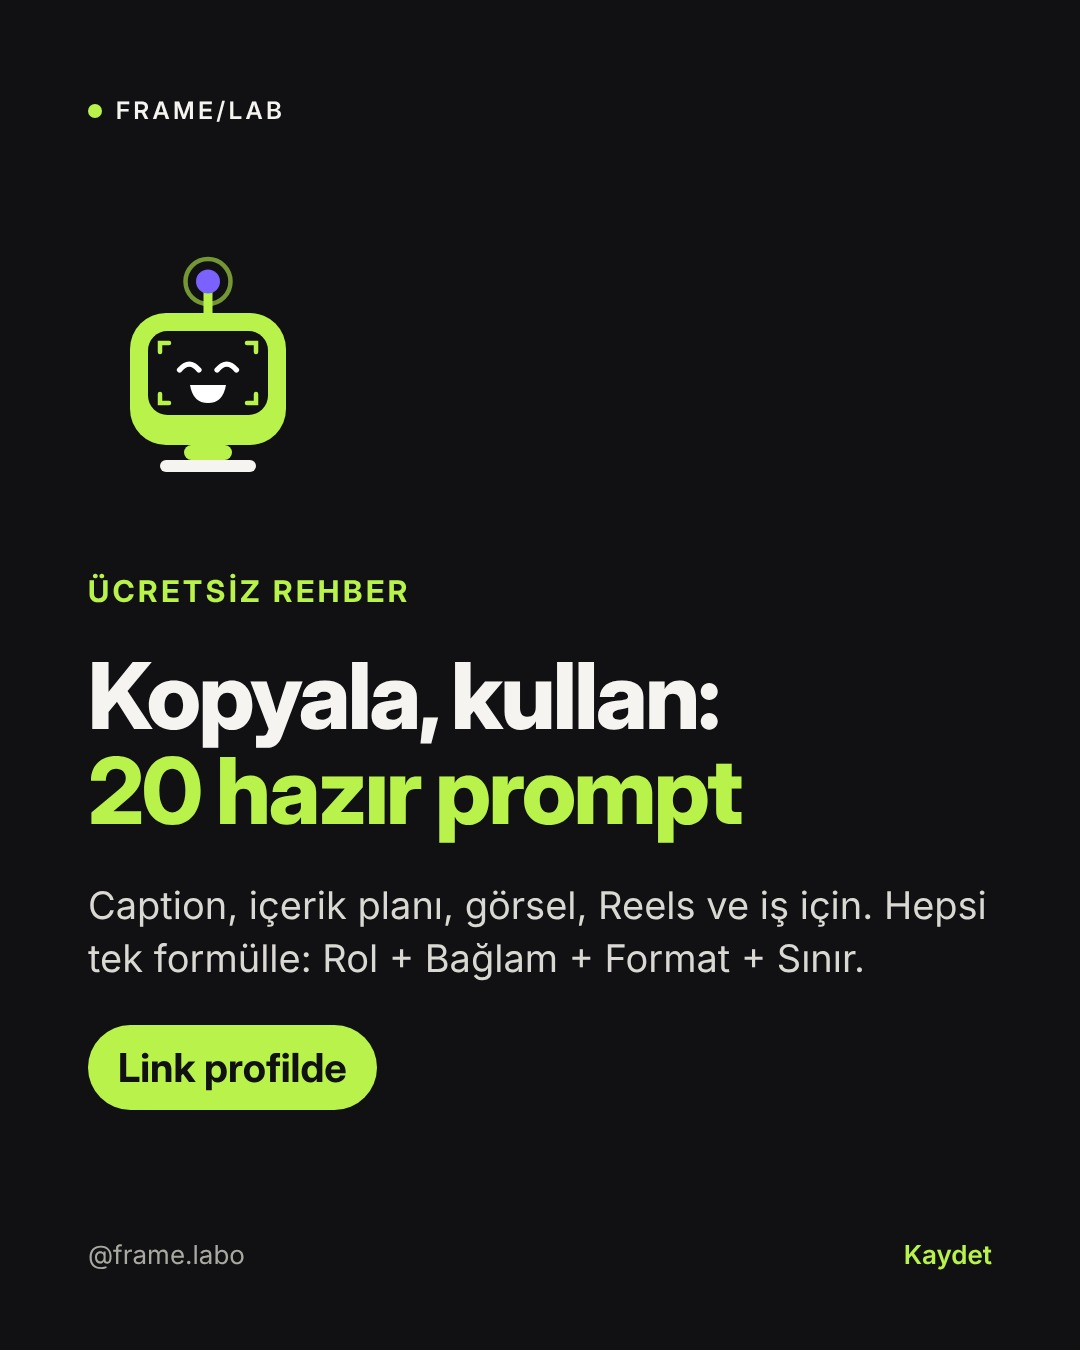
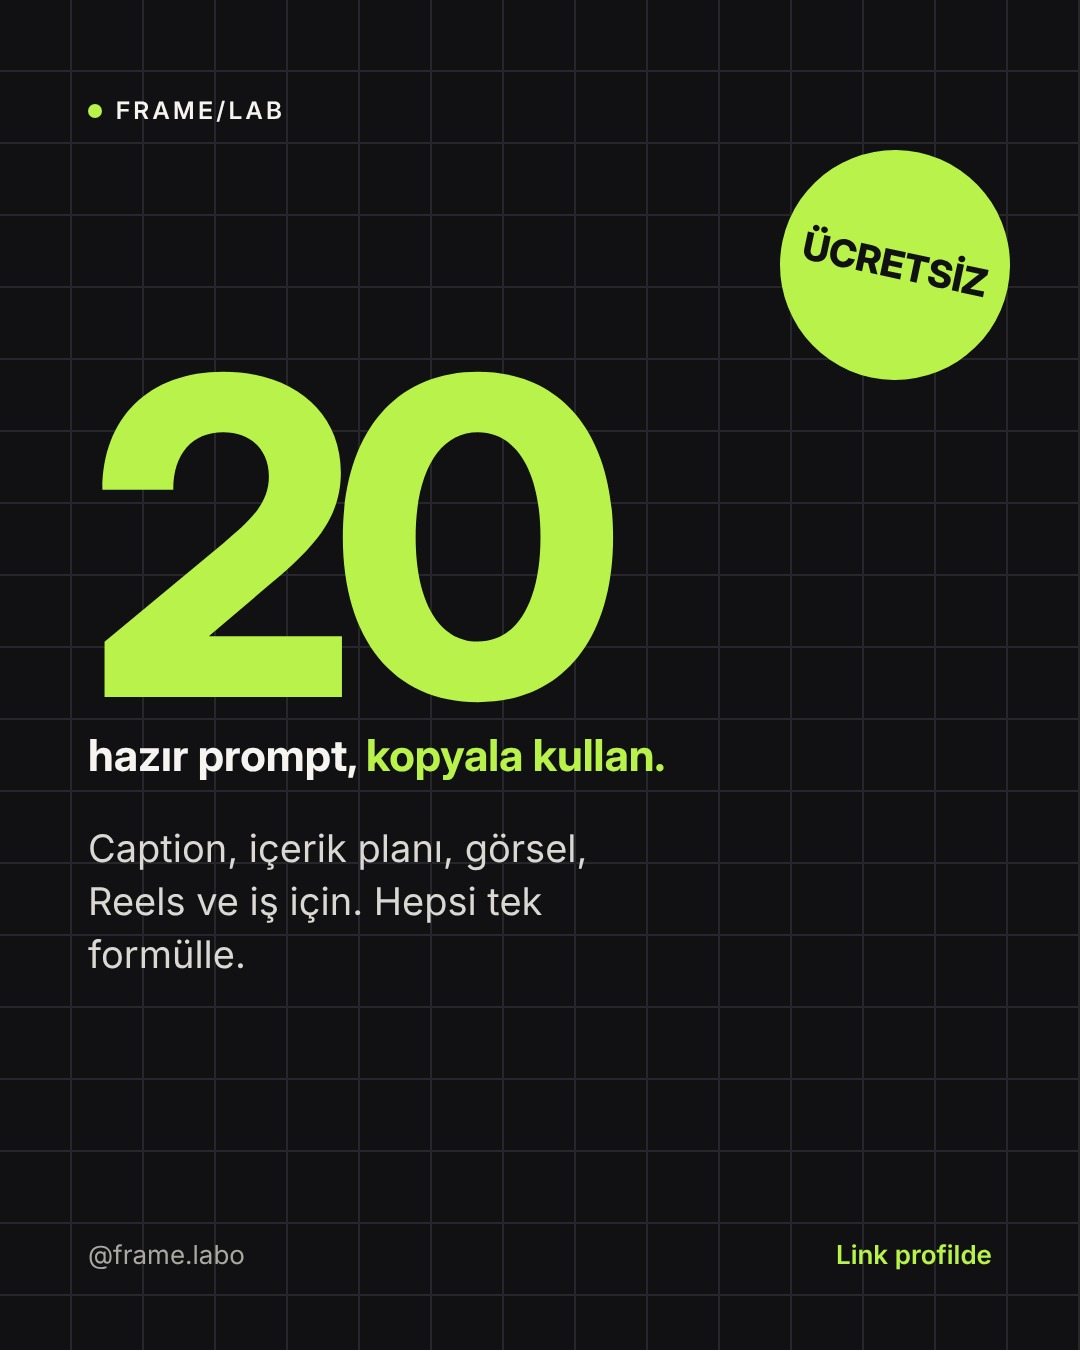
Yeni düzen aileleri (bignum, chat, phone, compare, steps, quote, tiles), çeşitlilik kuralları; rehber gönderisi yeni düzende
Claude-Session: https://claude.ai/code/session_01Wxk8vG3nfm9TWwaejT8qL7

diff --git a/tools/render.py b/tools/render.py
@@ -49,7 +49,46 @@ h2{{font-family:'Inter Display';font-weight:800;font-size:{76 if h<1500 else 88}
 .rd{{font-size:27px;color:{grey};margin-top:6px}}
 .foot{{position:absolute;left:{88 if h<1500 else 90}px;right:{88 if h<1500 else 90}px;bottom:{80 if h<1500 else 110}px;display:flex;justify-content:space-between;font-size:{26 if h<1500 else 30}px;color:{grey}}}
 .sw{{color:{lab if theme=='dark' else fg};font-weight:600}}
-.a{{opacity:1}}"""
+.a{{opacity:1}}
+.main.center{{text-align:center;align-items:center}} .main.bottom{{justify-content:flex-end}}
+.pat-grid{{background-image:linear-gradient({line} 2px,transparent 2px),linear-gradient(90deg,{line} 2px,transparent 2px);background-size:72px 72px;background-position:-2px -2px}}
+.pat-dots{{background-image:radial-gradient({line} 3px,transparent 3.5px);background-size:44px 44px}}
+.bignum{{font-family:'Inter Display';font-weight:800;line-height:.82;letter-spacing:-.06em;color:{lab if theme=='dark' else fg}}}
+.bignum .u{{display:inline-block;border-bottom:{'0' if theme=='dark' else '28px solid '+LIME};line-height:.7}}
+.blabel{{font-family:'Inter Display';font-weight:700;font-size:{44 if h<1500 else 52}px;margin-top:10px}}
+.chat{{display:flex;flex-direction:column;gap:22px;width:100%}}
+.bub{{max-width:86%;padding:26px 30px;border-radius:30px;font-size:{32 if h<1500 else 40}px;line-height:1.35;text-align:left}}
+.bub.you{{align-self:flex-end;background:{fg};color:{bg};border-bottom-right-radius:8px}}
+.bub.ai{{align-self:flex-start;background:{cardbg};color:{fg};border-bottom-left-radius:8px;{'' if theme=='dark' else 'box-shadow:0 2px 0 '+line}}}
+.bub .who{{display:block;font-size:22px;font-weight:700;letter-spacing:.08em;opacity:.6;margin-bottom:8px}}
+.cmp{{display:grid;grid-template-columns:repeat(2,minmax(0,1fr));gap:22px;width:100%;text-align:left}}
+.cmp .c{{border-radius:28px;padding:32px 30px;background:{cardbg}}}
+.cmp .c.good{{background:{LIME};color:{INK}}}
+.cmp .k{{font-family:'Inter Display';font-weight:800;font-size:28px;letter-spacing:.08em;margin-bottom:14px}}
+.cmp .t{{font-size:{30 if h<1500 else 36}px;line-height:1.38}}
+.steps{{display:flex;flex-direction:column;gap:26px;width:100%;text-align:left}}
+.step{{display:flex;gap:30px;align-items:flex-start}}
+.step .n{{font-family:'Inter Display';font-weight:800;font-size:{110 if h<1500 else 130}px;line-height:.8;color:transparent;-webkit-text-stroke:3px {lab if theme=='dark' else fg};min-width:150px}}
+.step .st{{font-family:'Inter Display';font-weight:700;font-size:{40 if h<1500 else 46}px;line-height:1.15}}
+.step .sd{{font-size:{28 if h<1500 else 34}px;color:{grey};margin-top:6px;line-height:1.35}}
+.quote{{font-family:'Inter Display';font-weight:800;font-size:{84 if h<1500 else 96}px;line-height:1.08;letter-spacing:-.025em}}
+.qm{{font-family:'Inter Display';font-weight:800;font-size:260px;line-height:.6;color:{lab if theme=='dark' else LIME_DARK};height:120px}}
+.tiles{{display:grid;grid-template-columns:repeat(2,minmax(0,1fr));gap:20px;width:100%;text-align:left}}
+.tile{{background:{cardbg};border-radius:28px;padding:30px 28px;min-height:{220 if h<1500 else 280}px;display:flex;flex-direction:column;justify-content:space-between}}
+.tile .ti{{font-family:'Inter Display';font-weight:800;font-size:52px;color:{lab if theme=='dark' else LIME_DARK}}}
+.tile .tt{{font-family:'Inter Display';font-weight:700;font-size:{32 if h<1500 else 38}px;line-height:1.2}}
+.sticker{{position:absolute;top:{150 if h<1500 else 190}px;right:{70 if h<1500 else 80}px;width:230px;height:230px;border-radius:50%;background:{LIME};color:{INK};display:flex;align-items:center;justify-content:center;text-align:center;font-family:'Inter Display';font-weight:800;font-size:38px;line-height:1.05;transform:rotate(12deg);z-index:3;padding:20px}}
+.peek{{position:absolute;right:-90px;bottom:{-60 if h<1500 else 40}px;z-index:1;transform:rotate(-10deg)}}
+.frame i{{position:absolute;width:90px;height:90px;border-color:{lab if theme=='dark' else fg};border-style:solid;border-width:0;z-index:2}}
+.frame .tl{{top:{150 if h<1500 else 120}px;left:56px;border-top-width:8px;border-left-width:8px}} .frame .tr{{top:{150 if h<1500 else 120}px;right:56px;border-top-width:8px;border-right-width:8px}}
+.frame .bl{{bottom:{140 if h<1500 else 190}px;left:56px;border-bottom-width:8px;border-left-width:8px}} .frame .br{{bottom:{140 if h<1500 else 190}px;right:56px;border-bottom-width:8px;border-right-width:8px}}
+.phone{{position:absolute;right:-30px;bottom:{-180 if h<1500 else -60}px;width:{430 if h<1500 else 500}px;height:{860 if h<1500 else 1000}px;border-radius:64px;background:{INK};border:14px solid {'#2A2A30' if theme=='dark' else INK};transform:rotate(-7deg);z-index:1;padding:70px 26px 26px;color:{PAPER};display:flex;flex-direction:column;gap:18px;box-shadow:0 30px 60px rgba(0,0,0,.25)}}
+.phone:before{{content:'';position:absolute;top:22px;left:50%;width:120px;height:30px;border-radius:20px;background:#000;transform:translateX(-50%)}}
+.phone .pt{{font-family:'Inter Display';font-weight:800;font-size:36px}}
+.phone .pb{{border-radius:22px;background:#26262C;padding:20px;font-size:26px;line-height:1.3}}
+.phone .pb.acc{{background:{LIME};color:{INK};font-weight:700}}
+.narrow{{max-width:{560 if h<1500 else 600}px}}
+.h1o{{color:transparent;-webkit-text-stroke:3px {fg}}}"""
 
 def el(e, light):
     k = e["type"]; at = f' data-in="{e["at"]}"' if "at" in e else ""
@@ -58,9 +97,12 @@ def el(e, light):
         return f'<div{cls}{at} data-pop="1" style="margin-left:-30px">{kare(e.get("size",340), e.get("face","mutlu"), bg="none", light_bg=light)}</div>'
     if k in ("h1", "h2"):
         st = f' style="font-size:{e["size"]}px"' if "size" in e else ""
-        return f'<{k}{cls}{at}{st}>{hl(e["text"])}</{k}>'
+        oc = ' class="h1o"' if e.get("outline") else ""
+        cl = (cls[:-1] + (" h1o" if e.get("outline") else "") + '"') if cls else oc
+        nar = '<div class="narrow">' if e.get("narrow") else ""
+        return f'{nar}<{k}{cl}{at}{st}>{hl(e["text"])}</{k}>' + ("</div>" if nar else "")
     if k == "tag":  return f'<div class="tag{" a" if at else ""}"{at}>{H.escape(e["text"])}</div>'
-    if k == "lead": return f'<p class="lead{" a" if at else ""}"{at}>{hl(e["text"])}</p>'
+    if k == "lead": return f'<p class="lead{" a" if at else ""}{" narrow" if e.get("narrow") else ""}"{at}>{hl(e["text"])}</p>'
     if k == "chips": return f'<div{cls}{at}>' + "".join(f'<span class="chip">{H.escape(c)}</span>' for c in e["items"]) + "</div>"
     if k == "pill": return f'<div{cls}{at}><span class="pill{" muted" if e.get("muted") else ""}">{H.escape(e["text"])}</span></div>'
     if k == "rows": return f'<div{cls}{at} style="border-bottom:2px solid rgba(127,127,127,.3)">' + "".join(
@@ -70,6 +112,31 @@ def el(e, light):
         body = (f'<div class="ct{" strong" if e.get("strong") else ""}" style="{("font-size:%spx" % e["size"]) if "size" in e else ""}" data-type="{e["typed"][0]},{e["typed"][1]}" data-full="{inner}"></div>'
                 if "typed" in e else f'<div class="ct{" strong" if e.get("strong") else ""}" style="{("font-size:%spx" % e["size"]) if "size" in e else ""}">{H.escape(e["text"])}</div>')
         return f'<div class="card{" out" if e.get("outline") else ""}{" a" if at else ""}"{at}><div class="lbl">{H.escape(e.get("label",""))}</div>{body}</div>'
+    if k == "bignum":
+        sz = e.get("size", 420 if True else 0)
+        return f'<div{cls}{at}><div class="bignum" style="font-size:{sz}px"><span class="u">{H.escape(e["text"])}</span></div>' + (f'<div class="blabel">{hl(e["label"])}</div>' if e.get("label") else "") + "</div>"
+    if k == "chat":
+        out = ""
+        for who, txt in e["items"]:
+            nm = e.get("names", {}).get(who, "SEN" if who == "you" else "YAPAY ZEKÂ")
+            out += f'<div class="bub {who}"><span class="who">{H.escape(nm)}</span>{H.escape(txt)}</div>'
+        return f'<div class="chat{" a" if at else ""}"{at}>{out}</div>'
+    if k == "compare":
+        L, R = e["left"], e["right"]
+        return f'<div class="cmp{" a" if at else ""}"{at}><div class="c"><div class="k">{H.escape(L["label"])}</div><div class="t">{H.escape(L["text"])}</div></div><div class="c good"><div class="k">{H.escape(R["label"])}</div><div class="t">{H.escape(R["text"])}</div></div></div>'
+    if k == "steps":
+        return f'<div class="steps{" a" if at else ""}"{at}>' + "".join(f'<div class="step"><div class="n">{i+1:02d}</div><div><div class="st">{H.escape(t)}</div>' + (f'<div class="sd">{H.escape(d)}</div>' if d else "") + "</div></div>" for i, (t, d) in enumerate(e["items"])) + "</div>"
+    if k == "quote":
+        return f'<div{cls}{at}><div class="qm">“</div><div class="quote">{hl(e["text"])}</div></div>'
+    if k == "tiles":
+        return f'<div class="tiles{" a" if at else ""}"{at}>' + "".join(f'<div class="tile"><div class="ti">{H.escape(t[0])}</div><div class="tt">{H.escape(t[1])}</div></div>' for t in e["items"]) + "</div>"
+    if k == "sticker":
+        return f'<div class="sticker">{hl(e["text"])}</div>'
+    if k == "kare_peek":
+        return f'<div class="peek">{kare(e.get("size",620), e.get("face","goz"), bg="none", light_bg=light)}</div>'
+    if k == "phone":
+        blocks = "".join(f'<div class="pb{" acc" if i == e.get("accent", -1) else ""}">{H.escape(b)}</div>' for i, b in enumerate(e.get("blocks", [])))
+        return f'<div class="phone"><div class="pt">{H.escape(e.get("title",""))}</div>{blocks}</div>'
     raise ValueError("bilinmeyen öğe: " + k)
 
 JS = """<script>
@@ -83,13 +150,17 @@ window.render=function(t){
 };
 </script>"""
 
-def page(theme, elements, w, h, top=None, foot_right=None):
+ABS = ("sticker", "kare_peek", "phone")
+def page(theme, elements, w, h, top=None, foot_right=None, align="", pattern="", frame=False):
     light = theme in ("light", "soft")
     t = f'<div class="top"><div class="brand"><span class="dot"></span>FRAME/LAB</div><div>{top or ""}</div></div>' if h < 1500 else ""
     fr = foot_right if foot_right is not None else ("" if h >= 1500 else "Kaydır →")
     foot = f'<div class="foot"><span>@frame.labo</span><span class="sw">{H.escape(fr) if fr else ("FRAME/LAB" if h>=1500 else "")}</span></div>'
-    body = "".join(el(e, light) for e in elements)
-    return f'<!doctype html><html lang="tr"><head><meta charset="utf-8"><style>{css(theme,w,h)}</style></head><body><div class="s">{t}<div class="main">{body}</div>{foot}</div>{JS}</body></html>'
+    body = "".join(el(e, light) for e in elements if e["type"] not in ABS)
+    deco = "".join(el(e, light) for e in elements if e["type"] in ABS)
+    fr = '<div class="frame"><i class="tl"></i><i class="tr"></i><i class="bl"></i><i class="br"></i></div>' if frame else ""
+    pc = f" pat-{pattern}" if pattern else ""
+    return f'<!doctype html><html lang="tr"><head><meta charset="utf-8"><style>{css(theme,w,h)}</style></head><body><div class="s{pc}">{fr}{deco}{t}<div class="main {align}" style="position:relative;z-index:2">{body}</div>{foot}</div>{JS}</body></html>'
 
 async def _shots(pages, w, h, paths, t_final=True):
     from playwright.async_api import async_playwright
@@ -106,11 +177,11 @@ async def _shots(pages, w, h, paths, t_final=True):
 
 def carousel(spec, out_dir):
     os.makedirs(out_dir, exist_ok=True); sl = spec["slides"]; n = len(sl)
-    pages = [page(s["theme"], s["elements"], 1080, 1350, (f"{i+1}/{n}" if n > 1 else ""), ("Takip et" if i == n-1 else None) if n > 1 else "Kaydet") for i, s in enumerate(sl)]
+    pages = [page(s["theme"], s["elements"], 1080, 1350, (f"{i+1}/{n}" if n > 1 else ""), s.get("foot_right", ("Takip et" if i == n-1 else None) if n > 1 else "Kaydet"), s.get("align",""), s.get("pattern",""), s.get("frame",False)) for i, s in enumerate(sl)]
     asyncio.run(_shots(pages, 1080, 1350, [f"{out_dir}/{i+1}.jpg" for i in range(n)]))
 
 def story(spec, out):
-    asyncio.run(_shots([page(spec["theme"], spec["elements"], 1080, 1920, foot_right=spec.get("foot_right", ""))], 1080, 1920, [out]))
+    asyncio.run(_shots([page(spec["theme"], spec["elements"], 1080, 1920, foot_right=spec.get("foot_right", ""), align=spec.get("align",""), pattern=spec.get("pattern",""), frame=spec.get("frame",False))], 1080, 1920, [out]))
 
 async def _reel_frames(spec, tmp):
     from playwright.async_api import async_playwright
@@ -119,7 +190,7 @@ async def _reel_frames(spec, tmp):
         b = await p.chromium.launch(executable_path="/usr/bin/google-chrome", args=["--no-sandbox"])
         pg = await b.new_page(viewport={"width": 1080, "height": 1920})
         for i, sc in enumerate(spec["scenes"]):
-            f = f"{tmp}/s{i}.html"; open(f, "w").write(page(sc["theme"], sc["elements"], 1080, 1920))
+            f = f"{tmp}/s{i}.html"; open(f, "w").write(page(sc["theme"], sc["elements"], 1080, 1920, align=sc.get("align",""), pattern=sc.get("pattern",""), frame=sc.get("frame",False)))
             await pg.goto("file://" + f); await pg.wait_for_timeout(250)
             n = int(round(sc["duration"] * 30)); part = f"{tmp}/s{i}.tmp.mp4"
             pr = subprocess.Popen(["ffmpeg","-y","-loglevel","error","-f","image2pipe","-framerate","30","-c:v","mjpeg","-i","-",

diff --git a/tools/PLAYBOOK.md b/tools/PLAYBOOK.md
@@ -15,6 +15,26 @@ Frame Lab, Ece Duru'nun yüzsüz Türkçe Instagram hesabı: **@frame.labo**. Ko
 - Tamamen fosforlu yeşil zemin kullanılmaz. Ece göz yorduğunu söyledi.
 - Üretim için `python3 tools/render.py` (carousel, story, reel). Spec örnekleri `tools/examples/` içinde. Vurgu için metinde `[[kelime]]` yazılır.
 
+## Tasarım çeşitliliği (Ece: "tasarımlar birbirine aşırı benziyor")
+Marka aynı kalır (renkler, fontlar, Kare), ama düzen her seferinde değişir. Kalıp tekrarı yasak.
+- Düzen aileleri (spec örnekleri `tools/examples/layout-*.json`):
+  - **bignum:** dev rakam ya da istatistik + kısa etiket (sayı içeren her şey: "20 prompt", "3 adım", "%40").
+  - **chat:** prompt ve sonuç sohbet balonu olarak (prompt içerikleri için ideal).
+  - **phone:** kenardan giren telefon ekranı (uygulama, platform ve araç haberleri).
+  - **compare:** iki sütun, kötü/iyi ya da önce/sonra.
+  - **steps:** büyük, içi boş numaralı adımlar.
+  - **quote:** ortalanmış büyük cümle, vizör çerçevesi (`"frame": true`) ve `"align": "center"` ile.
+  - **tiles:** 2x2 kutular (4 madde, 4 araç).
+  - **classic:** Kare + etiket + başlık + açıklama (eski kalıp, artık nadiren).
+- Süsleme seçenekleri: `"pattern": "grid"` (laboratuvar kareli zemin) ya da `"dots"`, `sticker` (yuvarlak, eğik etiket: ÜCRETSİZ, YENİ, DENEDİK), `kare_peek` (kenardan bakan büyük Kare), başlıkta `"outline": true` (içi boş yazı), `"narrow": true` (yan tarafta telefon ya da Kare varken metni daraltır).
+- Kurallar:
+  1. Art arda iki feed gönderisinin kapağı aynı düzen ailesinden olamaz. Kullanılan düzen `grid` kaydına `layout` olarak yazılır.
+  2. Bir carousel en az 3 farklı düzen ailesi içerir, ardışık iki slayt aynı düzende olamaz.
+  3. Kare her slaytta olmaz: carousel başına en fazla 2 kez, farklı boyut ve konumda (büyük, kenardan bakan, küçük köşe).
+  4. Kareli/noktalı zemin ve vizör çerçevesi gönderi başına en fazla bir iki slaytta, abartmadan.
+  5. Başlık boyutu, hizalama (üst, orta, alt) ve metin yoğunluğu slayttan slayta değişir.
+  6. Story'ler de aynı ailelerden seçilir, aynı günün feed kapağıyla aynı düzende olmaz.
+
 ## Izgara düzeni (puzzle)
 - Profil ızgarası satranç tahtası gibi görünmeli: her feed gönderisinin kapağı bir öncekinin tersi olmalı. Açık (light veya soft) ve koyu (dark) sırayla gider.
 - Son kapak tonu `posts/state.json` içindeki `grid` listesinin son öğesinde yazar. Yeni gönderinin kapak tonu bunun tersi seçilir.
